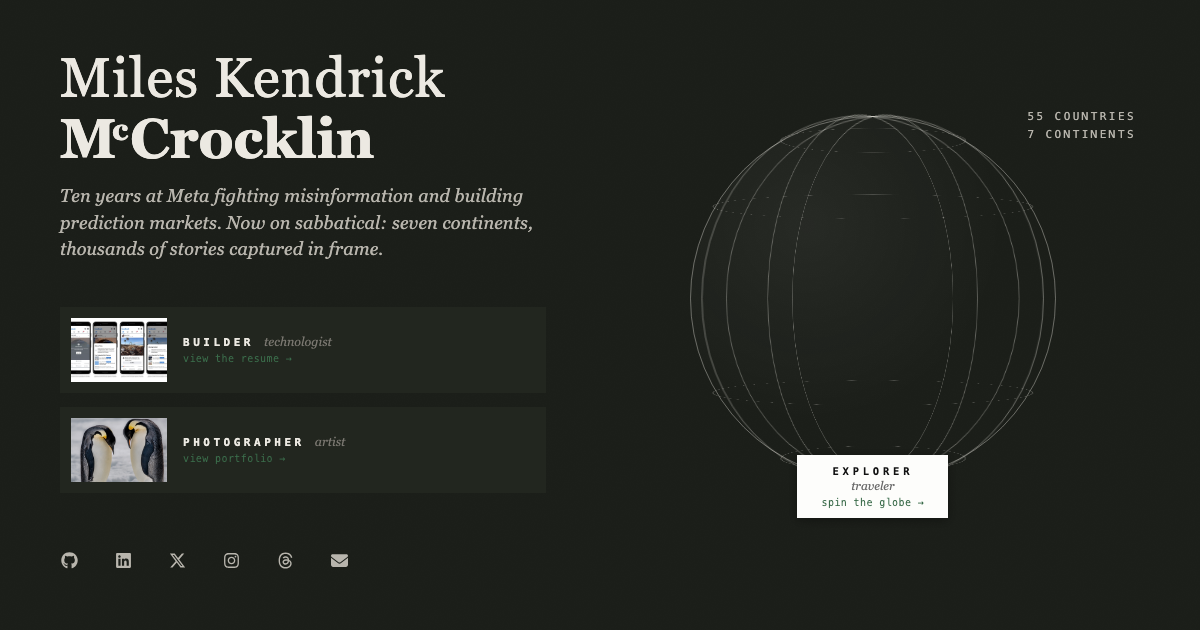
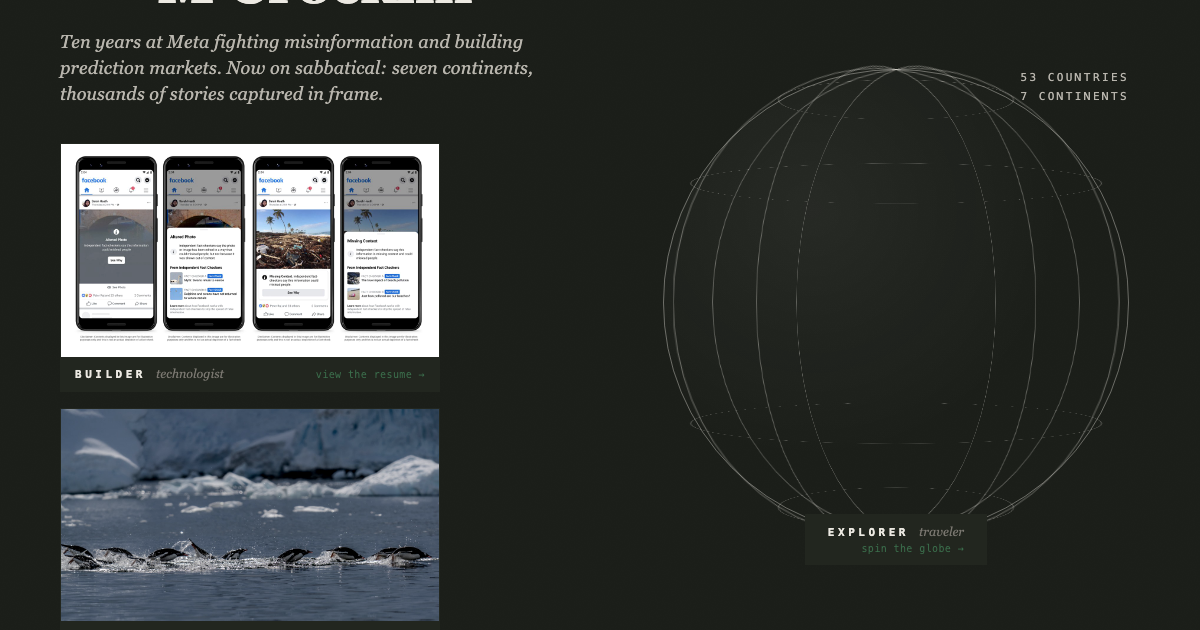
style(design): FINDING-003 — door cards at native 16:9 + byline portrait
Door thumbnails (96x64) gave the work no weight and cover-cropped both
images. Doors are now stacked full-width cards at native 16:9: the
misinformation UI is 1280x720, and the photographer card switches to
"Penguin Parade in the Southern Ice" (top crit-scored 16:9 in the
portfolio, 83) so both images match aspect and nothing crops. Adds the
byline portrait (media/summary/portrait.jpg) beside the wordmark in
the author-photo register — the page now has a face without competing
with the globe anchor. og.png regenerated.

diff --git a/src/splash/Splash.module.css b/src/splash/Splash.module.css
@@ -66,6 +66,29 @@
   grid-area: header;
 }
 
+/* Byline — the author-photo register: small circular portrait beside
+   the wordmark, book-jacket style. Answers "whose site is this" with a
+   face without competing with the globe anchor. Same photo treatment
+   as everything else: grayscale at rest, color on intent. */
+.byline {
+  display: flex;
+  align-items: center;
+  gap: 20px;
+}
+.portrait {
+  width: 76px;
+  height: 76px;
+  object-fit: cover;
+  border-radius: 50%;
+  flex-shrink: 0;
+  border: 1px solid var(--splash-canvas-rule);
+  filter: grayscale(0.18) contrast(1.02);
+  transition: filter 240ms ease;
+}
+.byline:hover .portrait {
+  filter: grayscale(0) contrast(1.04);
+}
+
 /* Wordmark — same style register as the resume's Header.name
    (Georgia, 300 weight, 900-weight last name with sup'd "c" and inert
    syllable spans). Cream instead of ink to read on the dark mat. */
@@ -232,23 +255,31 @@
 }
 
 /* ============================================================
-   Doors — compact rows for Builder and Photographer. One thumbnail,
-   label + sublabel, CTA visible at rest on every viewport (no
-   hover-only affordances). The row list scales to future doors
-   (PROJECTS) without recomposing the page.
+   Doors — stacked cards for Builder and Photographer. One full-width
+   image each at its native 16:9 (both curated to the misinformation
+   UI's aspect so the stack aligns and NOTHING is cropped), label row
+   beneath with the CTA visible at rest on every viewport. The card
+   stack scales to future doors (PROJECTS) without recomposing the
+   page.
    ============================================================ */
 .doors {
   grid-area: doors;
   display: flex;
   flex-direction: column;
-  gap: 14px;
+  gap: 16px;
   align-self: center;
+  width: 100%;
+}
+@media (min-width: 900px) {
+  .doors {
+    /* Narrower than the column so both native-aspect images fit the
+       vertical budget of the 100vh composition. */
+    width: min(100%, 380px);
+  }
 }
 .door {
   display: flex;
-  align-items: center;
-  gap: 16px;
-  padding: 10px;
+  flex-direction: column;
   background: #22261f;
   border: 1px solid transparent;
   text-decoration: none;
@@ -262,11 +293,14 @@
   outline: 2px solid var(--splash-accent);
   outline-offset: 4px;
 }
-.doorThumb {
-  width: 96px;
-  height: 64px;
+.doorImage {
+  width: 100%;
+  /* Both door images are native 16:9 — the box matches the file, so
+     object-fit never crops. If a future door ships a different ratio,
+     re-curate the image, don't crop it here. */
+  aspect-ratio: 16 / 9;
   object-fit: cover;
-  flex-shrink: 0;
+  display: block;
   /* Loading state: the void tone shows while bytes arrive (slow
      networks see a quiet dark slab, never a broken-image icon). */
   background: var(--splash-canvas-void);
@@ -275,16 +309,18 @@
   filter: grayscale(0.18) contrast(1.02);
   transition: filter 240ms ease;
 }
-.door:hover .doorThumb,
-.door:focus-visible .doorThumb {
+.door:hover .doorImage,
+.door:focus-visible .doorImage {
   filter: grayscale(0) contrast(1.04);
 }
 .doorText {
   display: flex;
-  flex-direction: column;
-  gap: 4px;
+  align-items: baseline;
+  gap: 10px;
+  padding: 10px 14px;
   min-width: 0;
 }
+/* Shared by the hero's label chip (label + sublabel on one baseline). */
 .doorTitle {
   display: flex;
   align-items: baseline;
@@ -308,6 +344,8 @@
   font-size: 10px;
   letter-spacing: 0.04em;
   color: var(--splash-accent);
+  margin-left: auto;
+  white-space: nowrap;
 }
 .door:hover .doorCta {
   text-decoration: underline;

diff --git a/src/splash/Splash.tsx b/src/splash/Splash.tsx
@@ -54,10 +54,11 @@ const SOCIALS: ReadonlyArray<{
   { id: 'email',     href: 'mailto:miles@mccrockl.in',                               Icon: FaEnvelope,  label: 'Email' },
 ];
 
-// Door rows — one tight thumbnail each (a masonry collage at door size
-// reads as mud; see the 2026-07 design review). Thumbnail curation is
-// hardcoded for the bundle-guard reason above; TODOS.md tracks moving
-// it to data.
+// Door cards — one full-width image each at its NATIVE aspect ratio
+// (both curated to 16:9 so the stack aligns; nothing is cropped).
+// Photographer card is "Penguin Parade in the Southern Ice", the
+// top-crit-scored 16:9 in the portfolio (83). Curation is hardcoded
+// for the bundle-guard reason above; TODOS.md tracks moving it to data.
 const DOORS: ReadonlyArray<{
   id: string;
   href: string;
@@ -79,7 +80,7 @@ const DOORS: ReadonlyArray<{
   {
     id: 'photographer',
     href: '/photographer/',
-    thumb: '/media/sabbatical-travel/travel-09.jpeg',
+    thumb: '/media/photography/20241202-dsc08560.jpg',
     label: 'PHOTOGRAPHER',
     sublabel: 'artist',
     cta: 'view portfolio →',
@@ -176,11 +177,19 @@ export function Splash(): JSX.Element {
       ref={rootRef}
     >
       <header className={s.header}>
-        <h1 className={s.wordmark}>
-          {syllable(first, SYL.mil, 'mil')}
-          <br />
-          <span className={s.last}>{renderLast(last)}</span>
-        </h1>
+        <div className={s.byline}>
+          <img
+            className={s.portrait}
+            src="/media/summary/portrait.jpg"
+            alt="Portrait of Miles McCrocklin"
+            loading="lazy"
+          />
+          <h1 className={s.wordmark}>
+            {syllable(first, SYL.mil, 'mil')}
+            <br />
+            <span className={s.last}>{renderLast(last)}</span>
+          </h1>
+        </div>
         <p className={s.tagline}>
           Ten years at Meta fighting misinformation and building prediction
           markets. Now on sabbatical: seven continents, thousands of stories
@@ -216,12 +225,10 @@ export function Splash(): JSX.Element {
       <div className={s.doors}>
         {DOORS.map(({ id, href, thumb, label, sublabel, cta, aria }) => (
           <a key={id} className={s.door} data-id={id} href={href} aria-label={aria}>
-            <img className={s.doorThumb} src={thumb} alt="" loading="lazy" />
+            <img className={s.doorImage} src={thumb} alt="" loading="lazy" />
             <span className={s.doorText}>
-              <span className={s.doorTitle}>
-                <span className={s.doorLabel}>{label}</span>
-                <span className={s.doorSublabel}>{sublabel}</span>
-              </span>
+              <span className={s.doorLabel}>{label}</span>
+              <span className={s.doorSublabel}>{sublabel}</span>
               <span className={s.doorCta}>{cta}</span>
             </span>
           </a>
